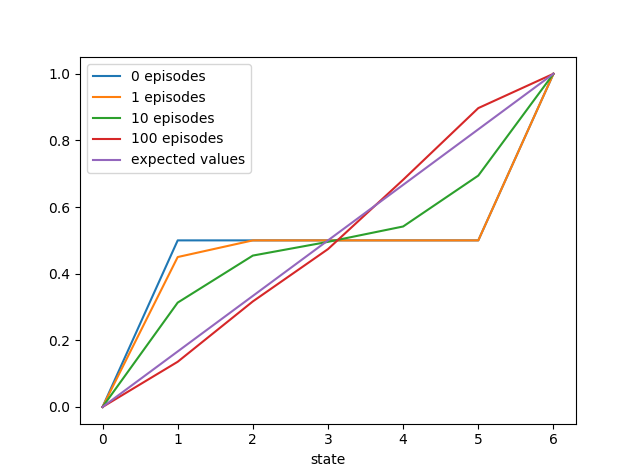
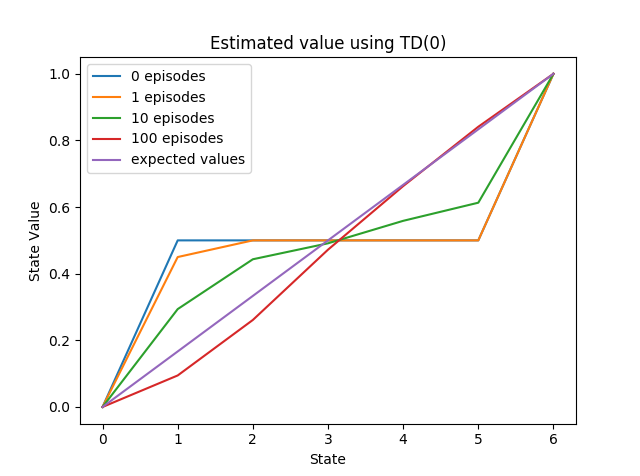
Fixed images and readme

diff --git a/Algo/TDvsMC.py b/Algo/TDvsMC.py
@@ -60,6 +60,7 @@ def state_values():
     plt.xlabel('State')
     plt.ylabel('State Value')
     plt.legend()
+    plt.title('Estimated value using TD(0)')
 
 
 def calc_RMS_err():
@@ -87,6 +88,7 @@ def calc_RMS_err():
     plt.xlabel('Walks/episodes')
     plt.ylabel('Error')
     plt.legend()
+    plt.title("Empirical RMS error, averaged over states")
 
 
 if __name__ == '__main__':

diff --git a/Algo/README.md b/Algo/README.md
@@ -2,7 +2,10 @@
 Comparison between different machine learning algorithms on selected problems.
 
 ### Temporail difference versus Monte Carlo
-![TDvsMC_error](/Algo/Images/TDvsMC_error.png?raw=true "Empirical RMS error,
-averaged over states")
+#### On Random Walk
+-------
 ![TDvsMC_StateValues](/Algo/Images/TDvsMC_StateValues.png?raw=true "Estimated
 value")
+
+![TDvsMC_error](/Algo/Images/TDvsMC_error.png?raw=true "Empirical RMS error,
+averaged over states")
